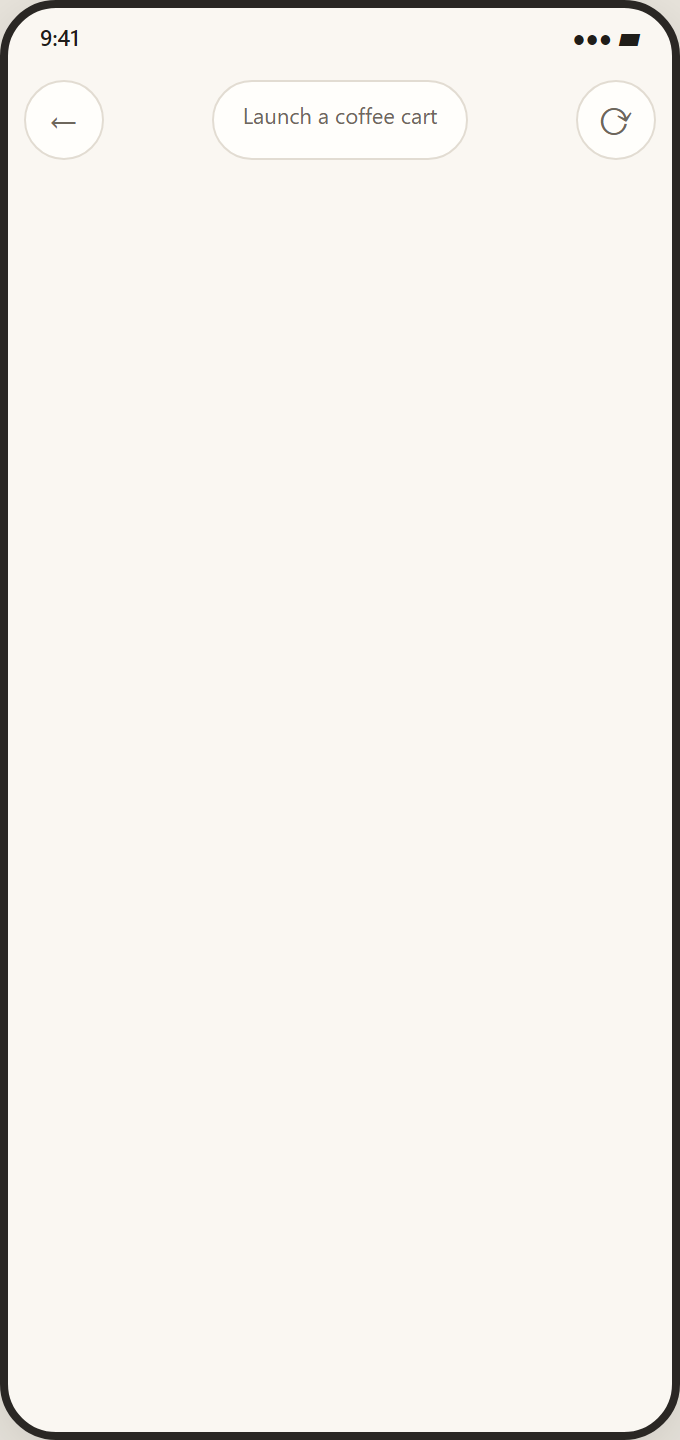
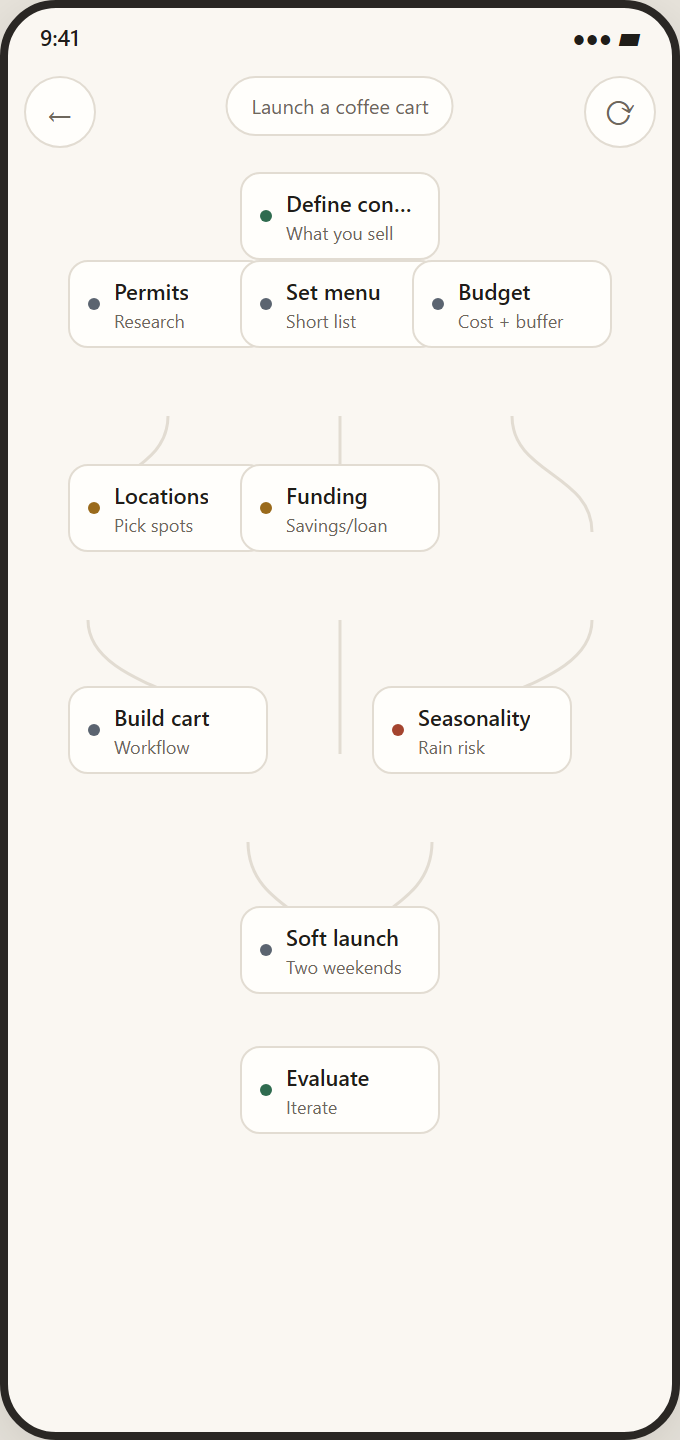
Fix chart screenshot (was blank), reduce to 3 key screens: Home, Questions, Chart

diff --git a/README.md b/README.md
@@ -58,13 +58,9 @@ is an adapter behind `LlmClient` — none is hard-wired.
 
 ## Screenshots
 
-| Home | Idea | Questions |
+| Home | Questions | Chart |
 |---|---|---|
-| ![Home](docs/screenshots/home.png) | ![Idea](docs/screenshots/idea.png) | ![Questions](docs/screenshots/questions.png) |
-
-| Generating | Chart | Library | Settings |
-|---|---|---|---|
-| ![Generating](docs/screenshots/generating.png) | ![Chart](docs/screenshots/chart.png) | ![Library](docs/screenshots/library.png) | ![Settings](docs/screenshots/settings.png) |
+| ![Home](docs/screenshots/home.png) | ![Questions](docs/screenshots/questions.png) | ![Chart](docs/screenshots/chart.png) |
 
 ## Getting started
 
